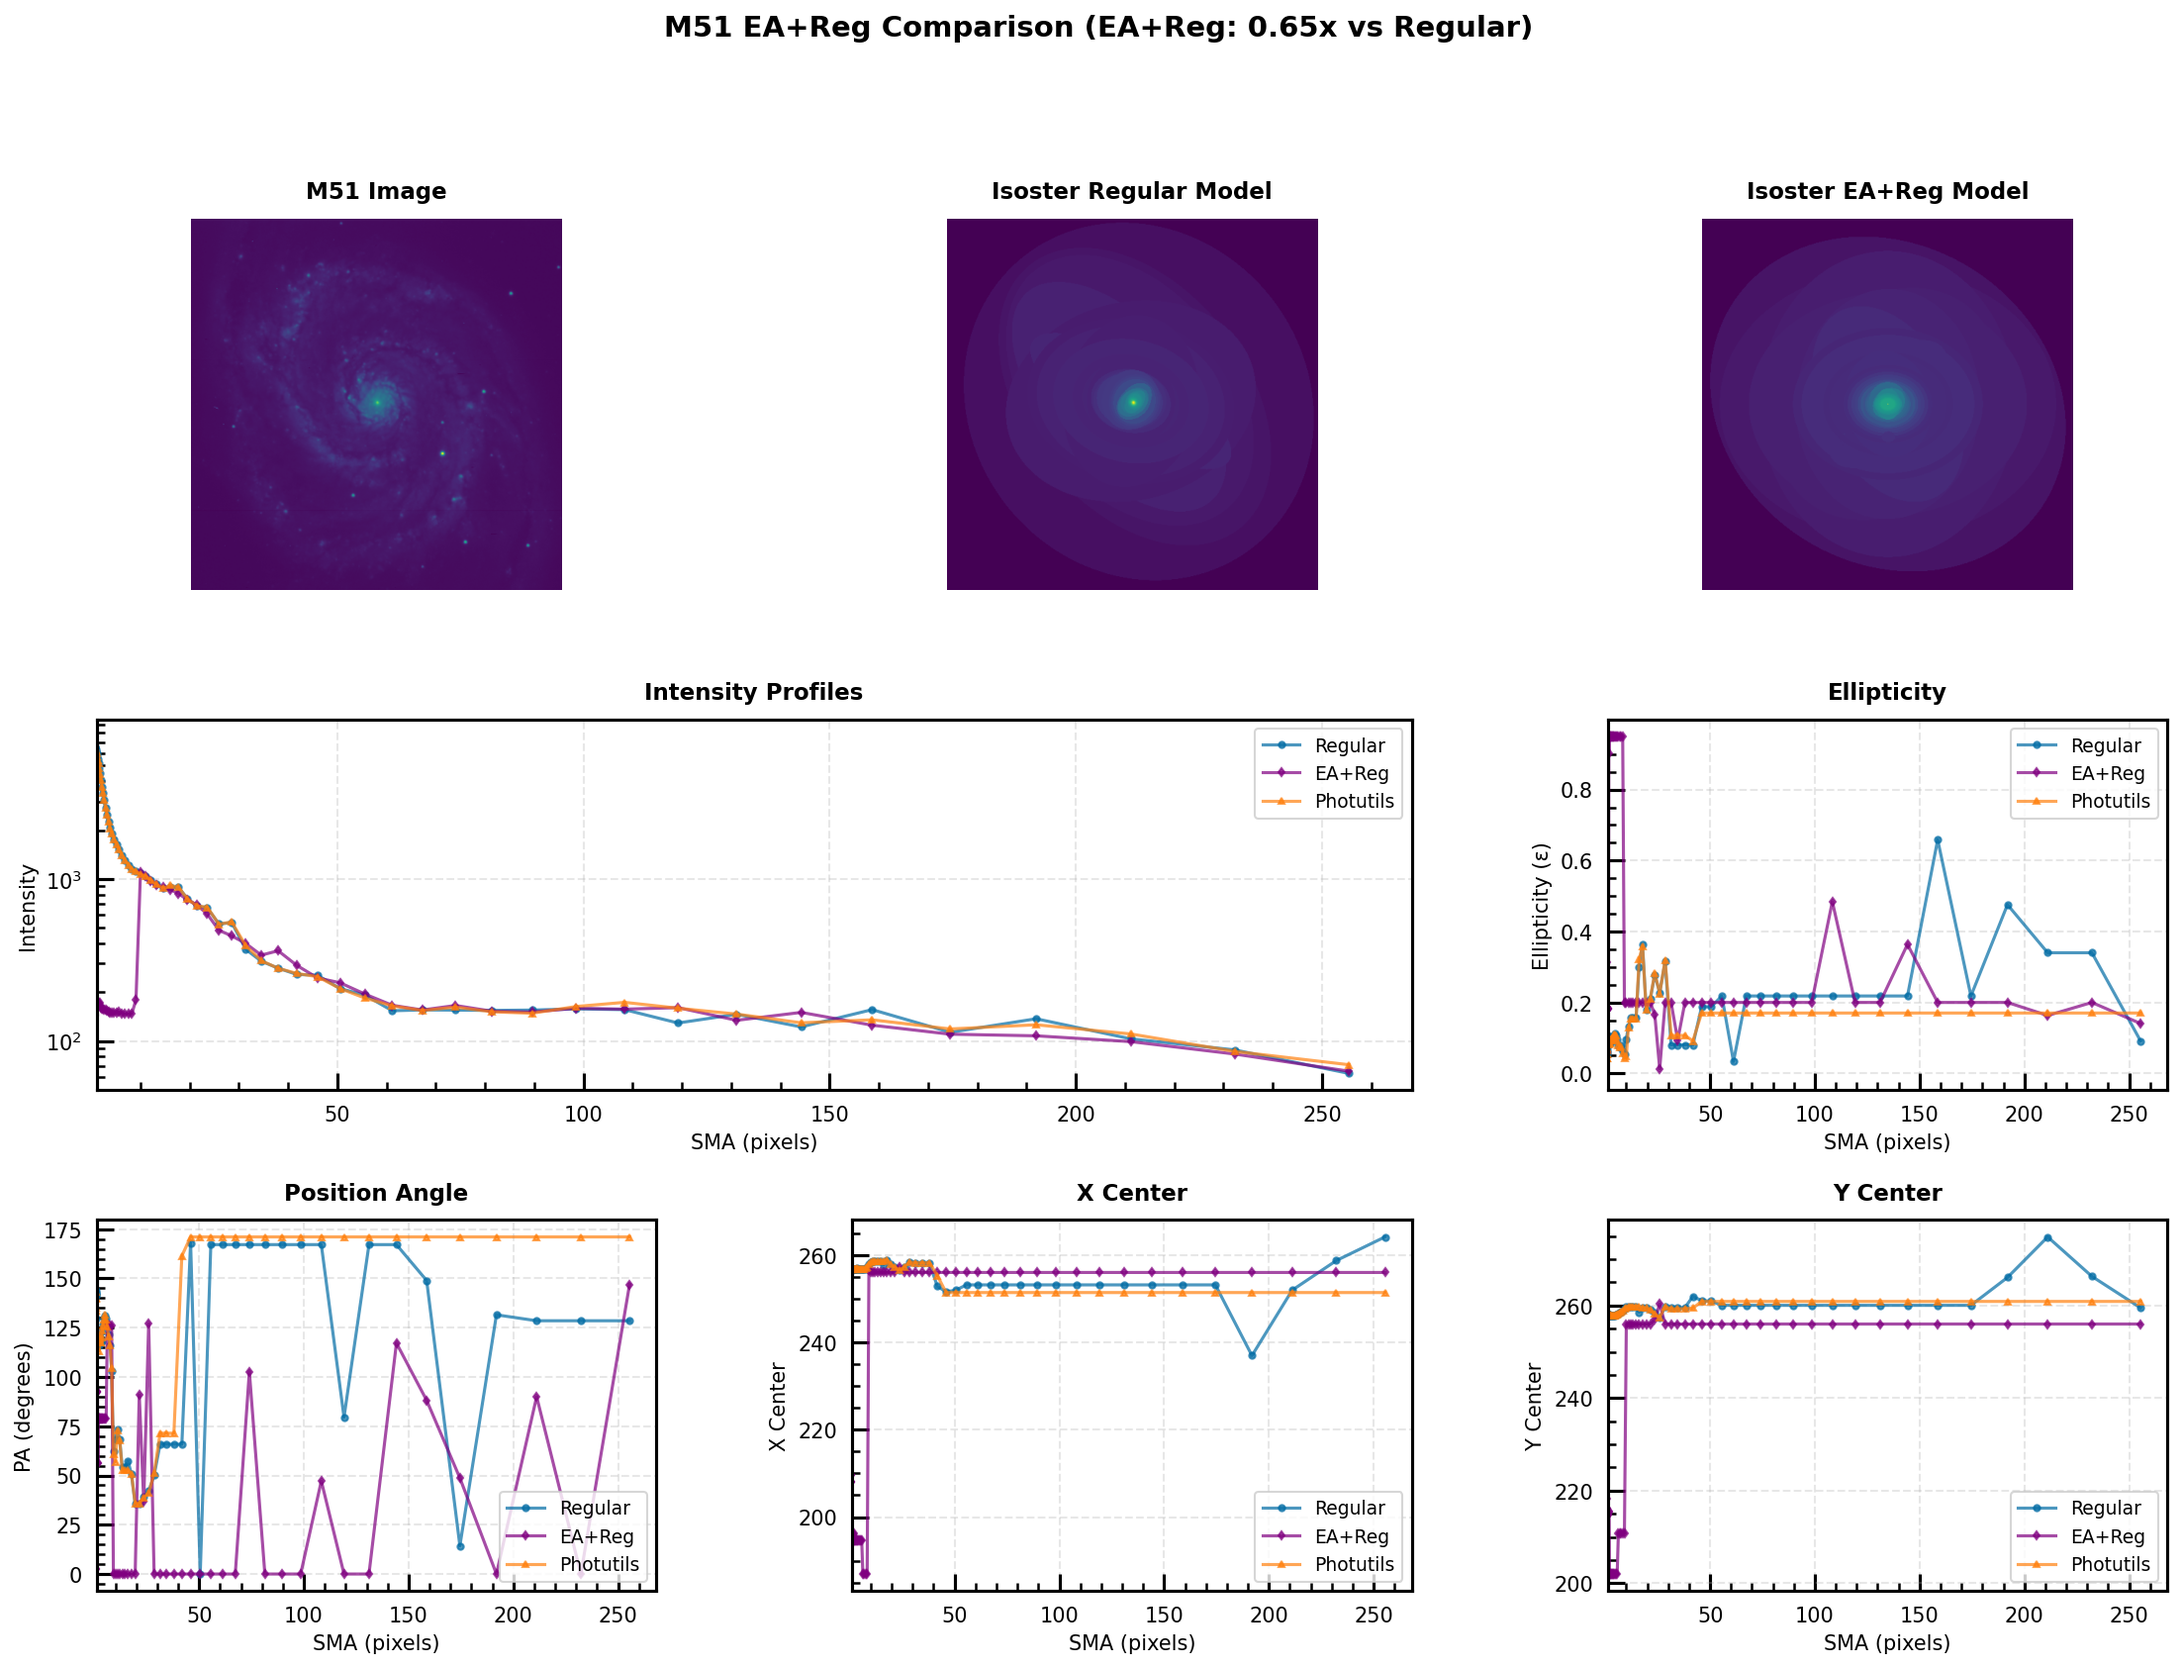
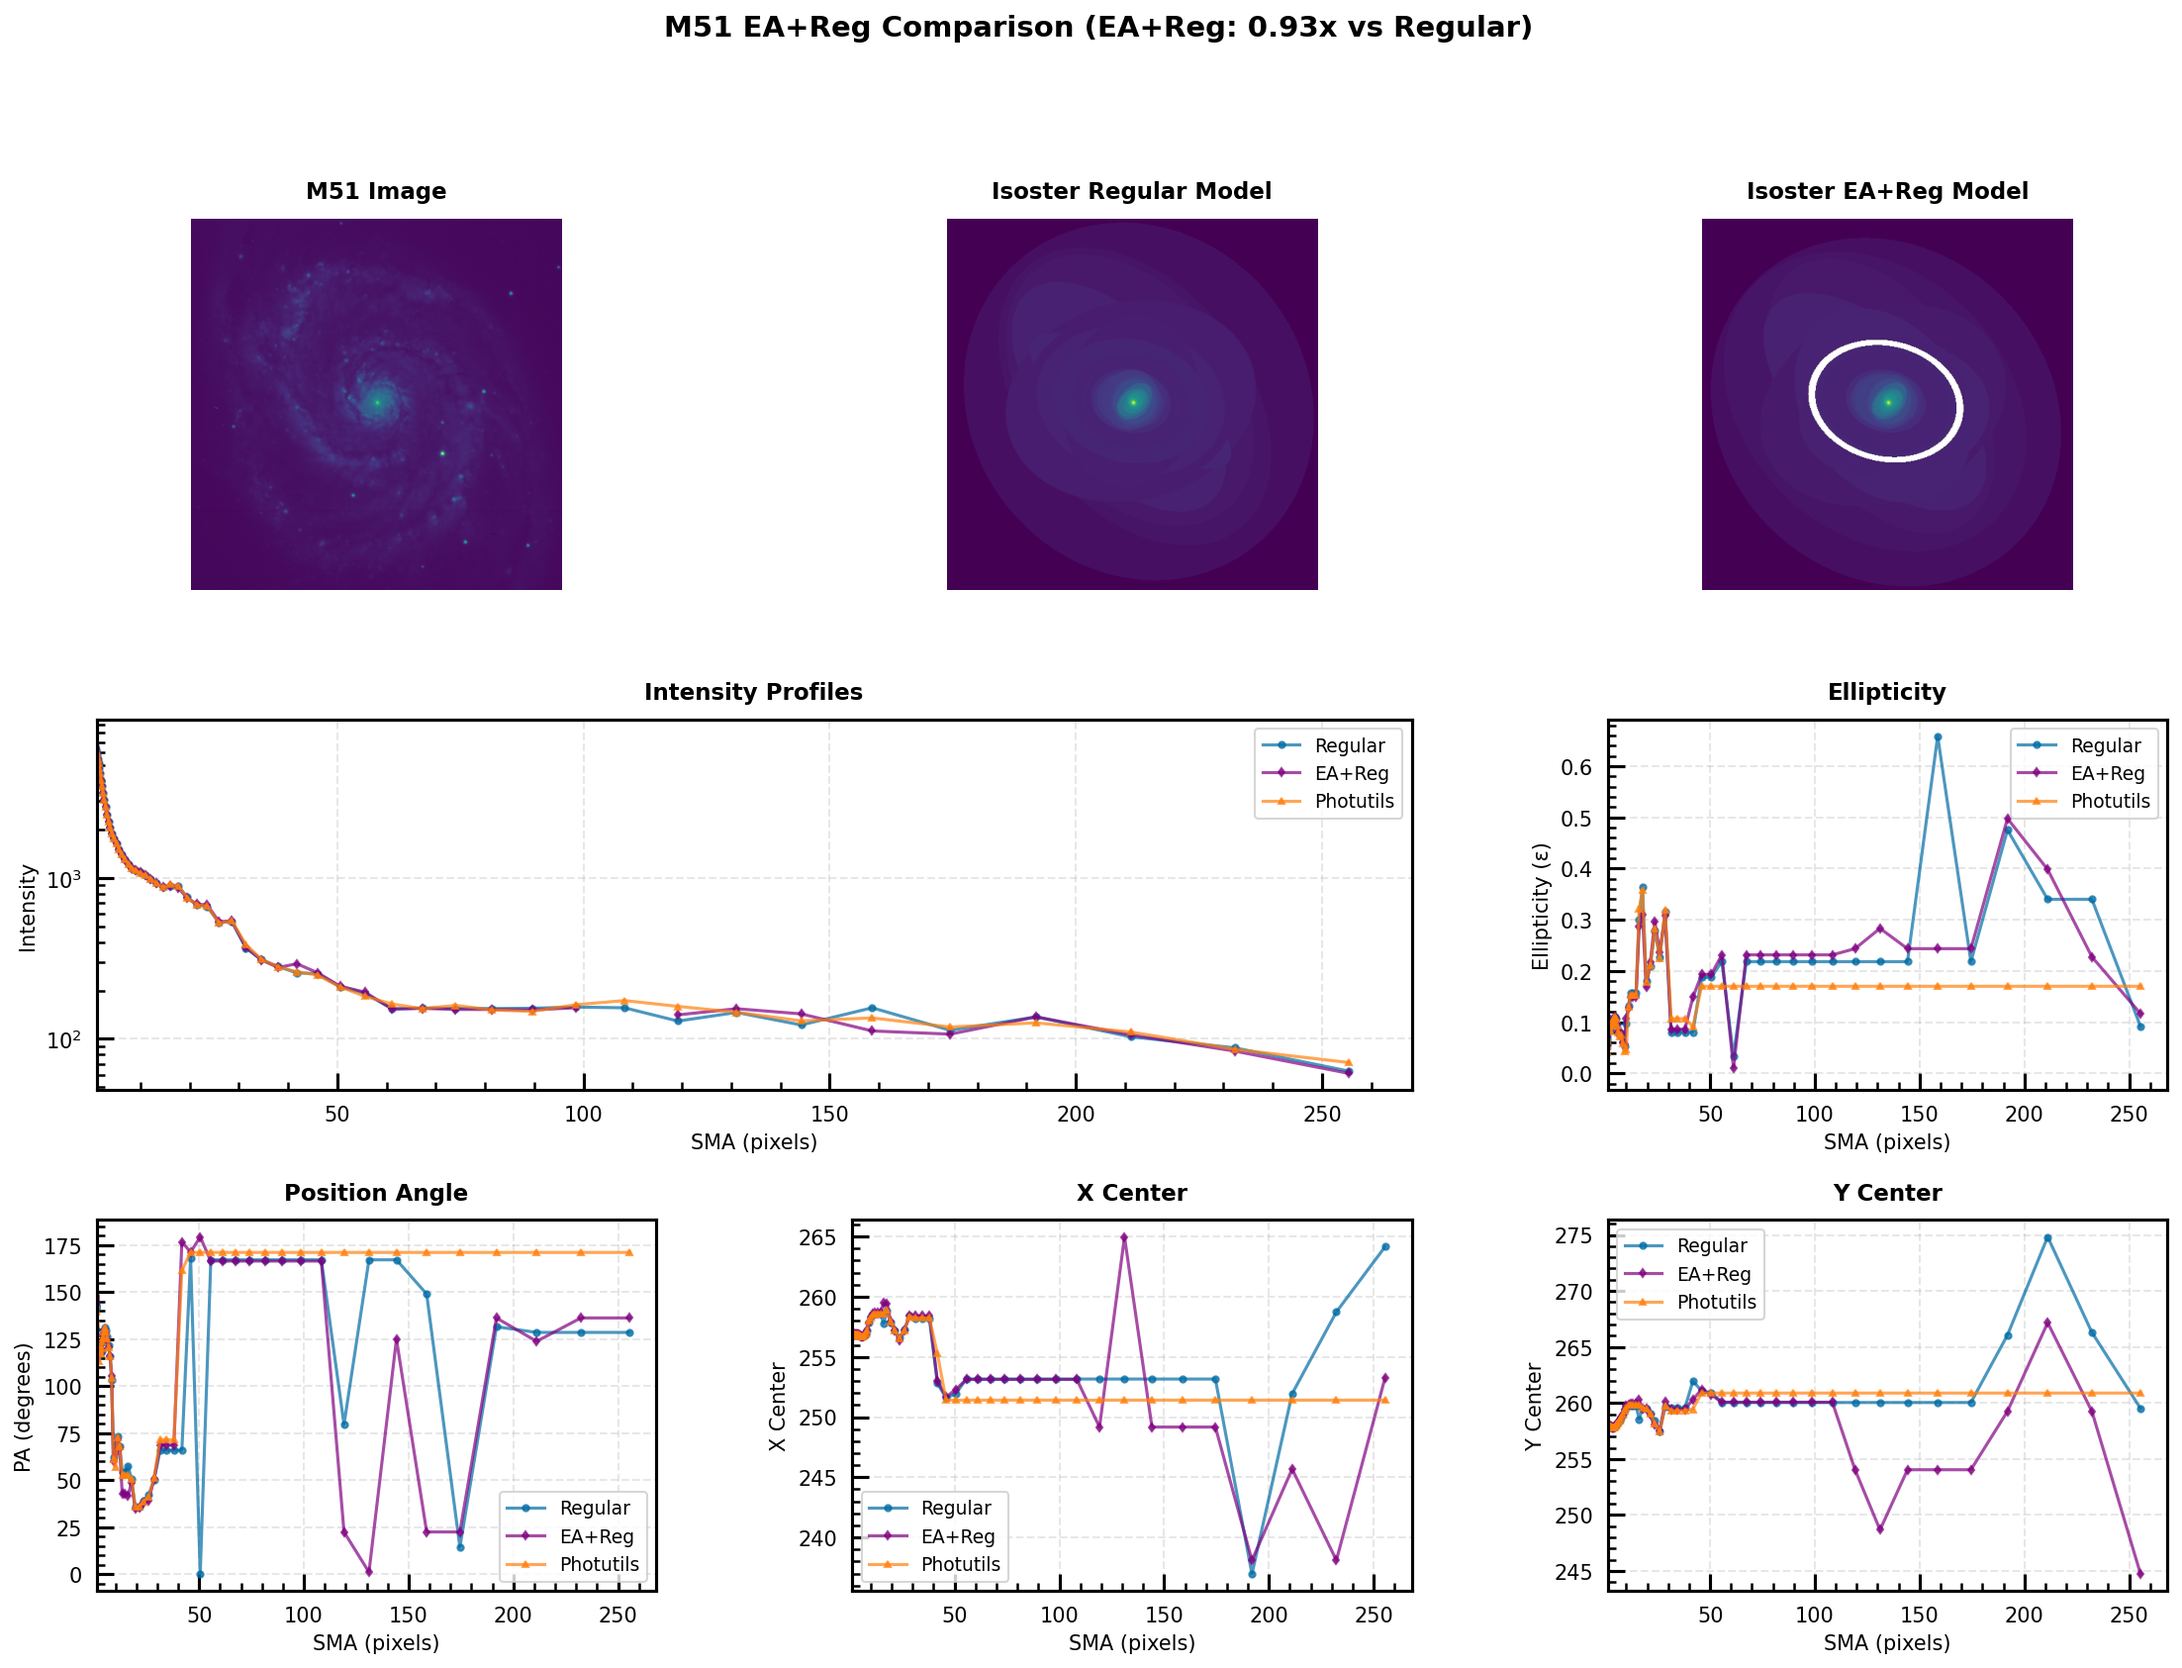
Fix EA mode: gradient computation respects EA sampling, EA definition standardized to PA direction

diff --git a/isoster/fitting.py b/isoster/fitting.py
@@ -280,13 +280,13 @@ def compute_deviations(phi, intens, sma, gradient, order):
     except Exception:
         return 0.0, 0.0, 0.0, 0.0
 
-def compute_gradient(image, mask, x0, y0, sma, eps, pa, step=0.1, linear_growth=False, previous_gradient=None, current_data=None, integrator='mean'):
+def compute_gradient(image, mask, x0, y0, sma, eps, pa, step=0.1, linear_growth=False, previous_gradient=None, current_data=None, integrator='mean', use_eccentric_anomaly=False):
     """Compute the radial intensity gradient."""
     if current_data is not None:
         phi_c, intens_c = current_data
     else:
         # Extract current SMA data
-        data_c = extract_isophote_data(image, mask, x0, y0, sma, eps, pa, step, linear_growth)
+        data_c = extract_isophote_data(image, mask, x0, y0, sma, eps, pa, step, linear_growth, use_eccentric_anomaly)
         phi_c = data_c.angles  # Use angles for fitting (φ in this case)
         intens_c = data_c.intens
     
@@ -304,7 +304,7 @@ def compute_gradient(image, mask, x0, y0, sma, eps, pa, step=0.1, linear_growth=
         gradient_sma = sma * (1.0 + step)
         
     # Extract gradient SMA data
-    data_g = extract_isophote_data(image, mask, x0, y0, gradient_sma, eps, pa, step, linear_growth)
+    data_g = extract_isophote_data(image, mask, x0, y0, gradient_sma, eps, pa, step, linear_growth, use_eccentric_anomaly)
     phi_g = data_g.angles
     intens_g = data_g.intens
     
@@ -332,7 +332,7 @@ def compute_gradient(image, mask, x0, y0, sma, eps, pa, step=0.1, linear_growth=
             gradient_sma_2 = sma * (1.0 + 2 * step)
             
         # Extract second gradient SMA
-        data_g2 = extract_isophote_data(image, mask, x0, y0, gradient_sma_2, eps, pa, step, linear_growth)
+        data_g2 = extract_isophote_data(image, mask, x0, y0, gradient_sma_2, eps, pa, step, linear_growth, use_eccentric_anomaly)
         phi_g2 = data_g2.angles
         intens_g2 = data_g2.intens
         
@@ -506,7 +506,8 @@ def fit_isophote(image, mask, sma, start_geometry, config, going_inwards=False, 
         
         # GRADIENT computed using φ and current geometry
         gradient, gradient_error = compute_gradient(image, mask, x0, y0, sma, eps, pa, astep, linear_growth, 
-                                                   previous_gradient, current_data=(phi, intens), integrator=eff_integrator)
+                                                   previous_gradient, current_data=(phi, intens), integrator=eff_integrator,
+                                                   use_eccentric_anomaly=use_eccentric_anomaly)
         if gradient_error is not None:
             previous_gradient = gradient
         

diff --git a/isoster/sampling.py b/isoster/sampling.py
@@ -14,16 +14,15 @@ def eccentric_anomaly_to_position_angle(eccentric_anomaly, ellipticity):
     """
     Convert eccentric anomaly to position angle for ellipse sampling.
     
-    Reference: B. C. Ciambur 2015 ApJ 810 120, Equation 4
+    Reference: B. C. Ciambur 2015 ApJ 810 120, Equation 4 (Modified)
     
-    Ciambur Eq. 4: ψ = -arctan(tan(φ) / (1 - ε))
+    Standard EA definition: x = a cos ψ, y = b sin ψ
+    tan φ = (b/a) tan ψ = (1-ε) tan ψ
     
-    Solving for φ:
-        tan(φ) = -(1 - ε) * tan(ψ)
-        tan(φ) = (ε - 1) * tan(ψ)
-    
-    Given uniform sampling in ψ (eccentric anomaly), this computes φ (position angle)
-    for coordinate calculation, providing uniform arc-length sampling along the ellipse.
+    NOTE: Ciambur (2015) uses ψ = -arctan(...), which makes ψ run opposite to φ.
+    We use the standard definition here to ensure ψ and φ align (rotate in same direction).
+    This allows us to use standard Jedrzejewski (1987) geometry updates which expect
+    harmonics to index angle in the standard counter-clockwise direction.
     
     Args:
         eccentric_anomaly (np.ndarray): ψ values, uniformly sampled in [0, 2π)
@@ -31,15 +30,11 @@ def eccentric_anomaly_to_position_angle(eccentric_anomaly, ellipticity):
         
     Returns:
         np.ndarray: φ values (position angles) for coordinate calculation
-        
-    Note:
-        For ε = 0 (circular), ψ = φ (transformation is identity).
-        For ε > 0 (elliptical), φ sampling becomes non-uniform.
     """
-    # tan(φ) = -(1 - ε) * tan(ψ) = (ε - 1) * tan(ψ)
+    # Standard: tan(φ) = (1 - ε) * tan(ψ)
     # Use atan2 for proper quadrant handling
     position_angle = np.arctan2(
-        -(1 - ellipticity) * np.sin(eccentric_anomaly),
+        (1 - ellipticity) * np.sin(eccentric_anomaly),
         np.cos(eccentric_anomaly)
     )
     # Ensure result is in [0, 2π)
